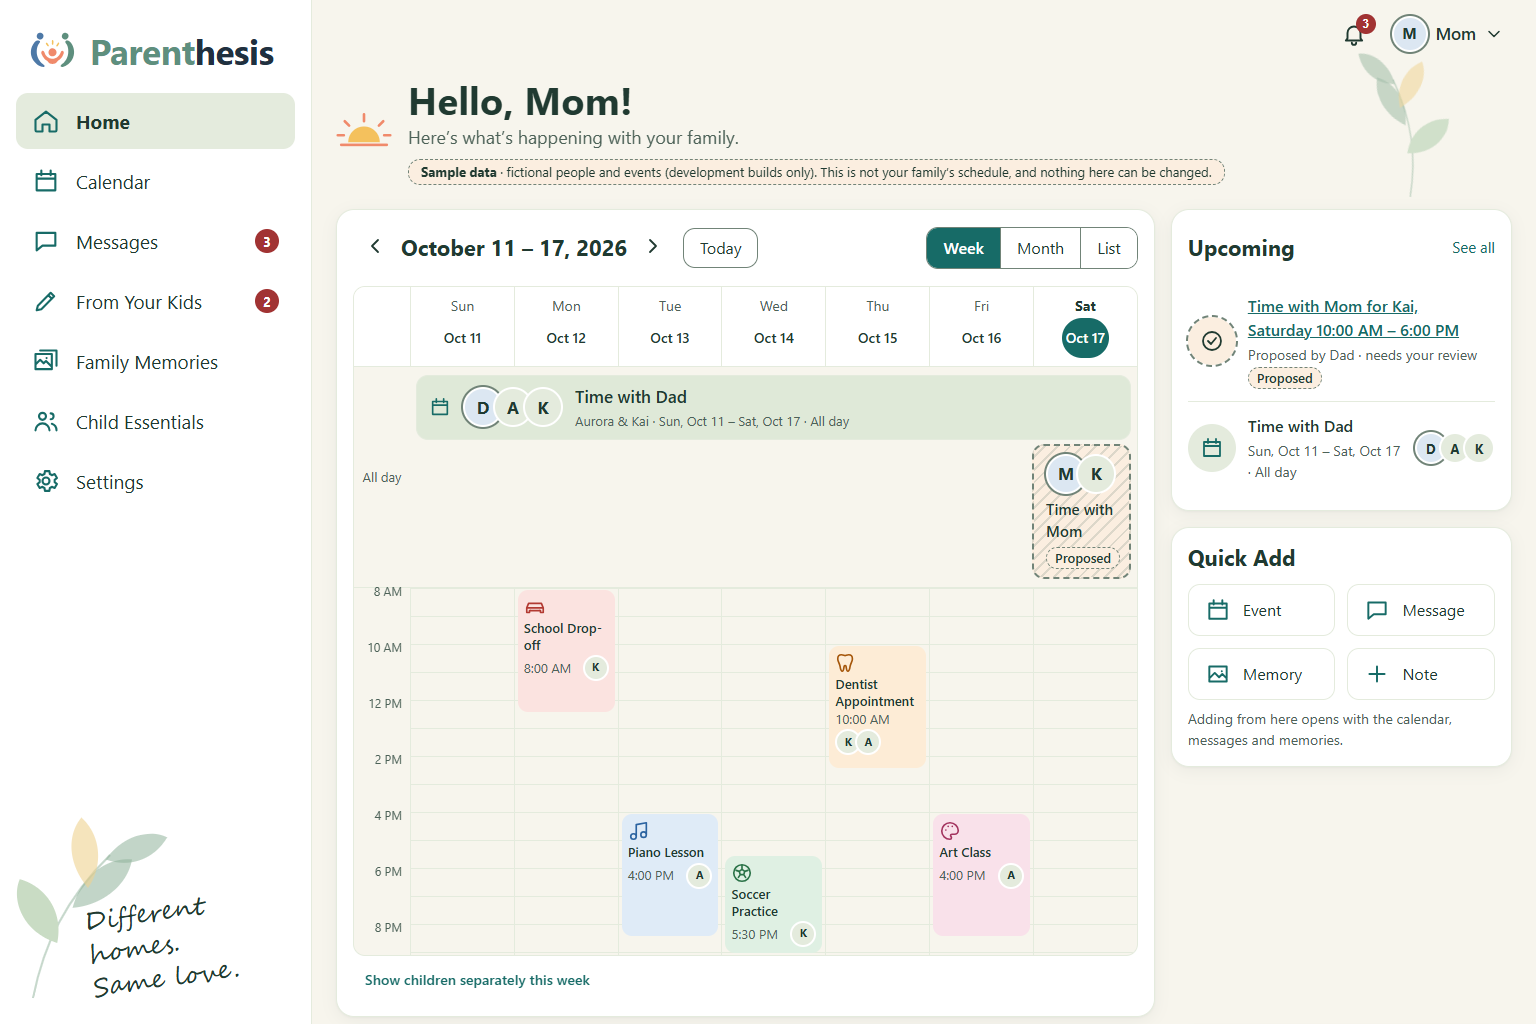
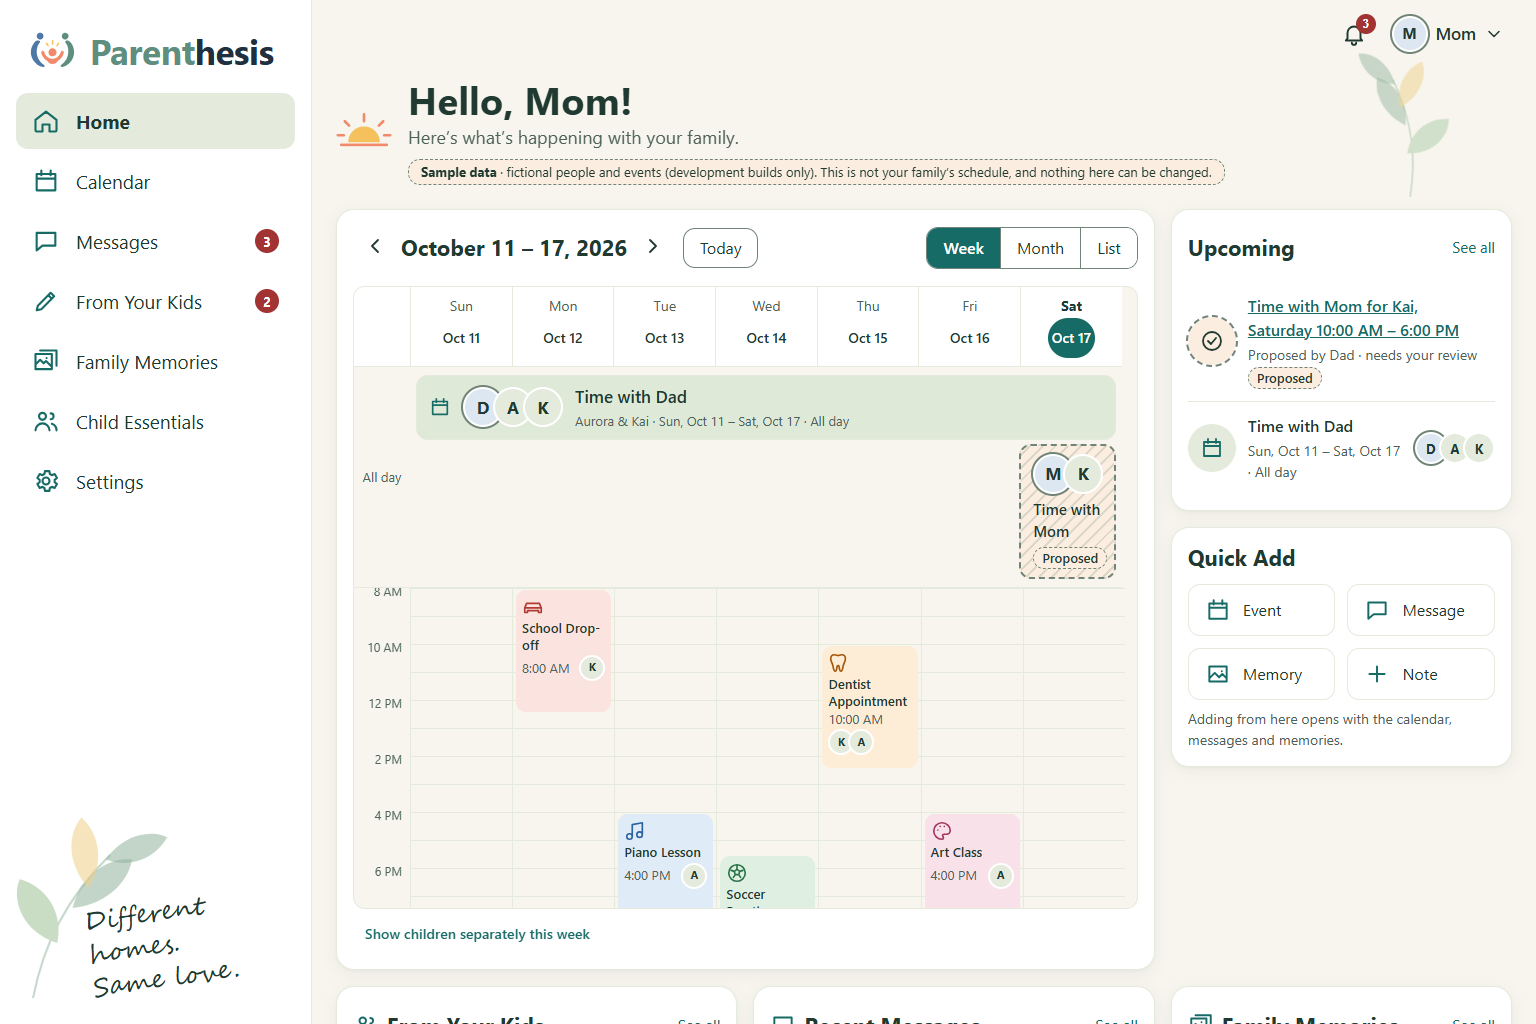
feat(dashboard): scrollable whole-day calendar with an always-visible scroll bar
User decision, October 17, 2026: like a desktop calendar, the day names and
the all-day row stay in place while the hours scroll inside a fixed height,
so the rest of the dashboard stays on screen.

- The grid now holds the whole day (12 AM - 12 AM) and opens each week at
  8 AM, or earlier when an activity starts earlier.
- Classic, always-visible scroll bar (opts out of auto-hiding overlay bars);
  the scroll area is keyboard-focusable and labelled.

diff --git a/src/frontend/src/app/features/dashboard/week-calendar.html b/src/frontend/src/app/features/dashboard/week-calendar.html
@@ -37,108 +37,120 @@
   <!-- Week grid (wide containers in Week view). -->
   @if (view() === 'week') {
     <div class="grid" [class.grid--empty]="state() !== 'ready'" [style.--rows]="rows()">
-      <div class="grid__corner" aria-hidden="true"></div>
-      @for (day of days(); track day.date) {
-        <div class="grid__head" [class.is-today]="day.isToday" [attr.aria-current]="day.isToday ? 'date' : null">
-          <span class="visually-hidden">{{ day.longLabel }}{{ day.isToday ? ', today' : '' }}</span>
-          <span aria-hidden="true" class="grid__weekday">{{ day.weekday }}</span>
-          <span aria-hidden="true" class="grid__date">{{ day.monthDay }}</span>
-        </div>
-      }
-
-      @if (state() === 'ready') {
-        <div class="grid__allday-label" aria-hidden="true">All day</div>
-        <ol class="allday" aria-label="All-day parenting time" [style.--lanes]="allDayLanes()">
-          @for (block of allDay(); track block.key) {
-            @let place = placement(block);
-            @if (place) {
-              <li
-                class="pt"
-                [class.pt--narrow]="place.endColumn - place.startColumn <= 2"
-                [attr.data-status]="block.status"
-                [style.--start]="place.startColumn"
-                [style.--end]="place.endColumn"
-                [style.--lane]="place.lane + 1"
-                [attr.title]="block.status === 'proposed' ? 'Proposed: needs approval, not on the schedule yet' : null"
-              >
-                <span class="pt__icon" aria-hidden="true"><app-icon name="calendar" [size]="22" /></span>
-                <span class="pt__avatars" aria-hidden="true">
-                  <app-avatar [name]="block.caregiver.displayName" kind="parent" [size]="40" />
-                  @for (child of block.children; track child.id) {
-                    <app-avatar [name]="child.name" [size]="40" />
-                  }
-                </span>
-                <span class="pt__text">
-                  <span class="pt__title">
-                    @if (place.continuesBefore) {
-                      <span aria-hidden="true">← </span>
-                    }
-                    {{ block.title }}
-                    @if (place.continuesAfter) {
-                      <span aria-hidden="true"> →</span>
-                    }
-                  </span>
-                  <span class="pt__meta">{{ childNames(block.children) }} · {{ range(block) }}</span>
-                  @if (block.status === 'proposed') {
-                    <span class="pt__note">Needs approval · not on the schedule yet</span>
-                  }
-                  @if (block.status === 'confirmed' && !block.changePending) {
-                    <span class="visually-hidden">, confirmed</span>
-                  }
-                </span>
-                @if (block.status !== 'confirmed' || block.changePending) {
-                  <span class="pt__status">
-                    @if (block.status !== 'confirmed') {
-                      <app-status-label [status]="block.status" />
-                    } @else {
-                      <app-status-label status="change-pending" />
-                    }
-                  </span>
-                }
-              </li>
-            }
-          }
-        </ol>
-
-        <div class="grid__hours" aria-hidden="true">
-          @for (mark of hourMarks(); track mark.row) {
-            <span [style.grid-row]="mark.row">{{ mark.label }}</span>
-          }
-        </div>
+      <!-- Day names and the all-day row stay in place; the hours below scroll, like a desktop calendar. -->
+      <div class="grid__top">
+        <div class="grid__corner" aria-hidden="true"></div>
         @for (day of days(); track day.date) {
-          <ol class="daycol" [attr.aria-label]="'Activities on ' + day.longLabel" [style.--lanes]="day.lanes">
-            @for (event of day.events; track event.id) {
-              @let slot = day.placements.get(event.id);
-              @if (slot) {
+          <div class="grid__head" [class.is-today]="day.isToday" [attr.aria-current]="day.isToday ? 'date' : null">
+            <span class="visually-hidden">{{ day.longLabel }}{{ day.isToday ? ', today' : '' }}</span>
+            <span aria-hidden="true" class="grid__weekday">{{ day.weekday }}</span>
+            <span aria-hidden="true" class="grid__date">{{ day.monthDay }}</span>
+          </div>
+        }
+
+        @if (state() === 'ready') {
+          <div class="grid__allday-label" aria-hidden="true">All day</div>
+          <ol class="allday" aria-label="All-day parenting time" [style.--lanes]="allDayLanes()">
+            @for (block of allDay(); track block.key) {
+              @let place = placement(block);
+              @if (place) {
                 <li
-                  class="act"
-                  [attr.data-category]="event.category"
-                  [attr.data-status]="event.status"
-                  [style.grid-row]="slot.row + ' / span ' + slot.span"
-                  [style.grid-column]="slot.lane"
-                  [attr.title]="event.title + ', ' + timeLabel(event.time!) + ', ' + childNames(event.children)"
+                  class="pt"
+                  [class.pt--narrow]="place.endColumn - place.startColumn <= 2"
+                  [attr.data-status]="block.status"
+                  [style.--start]="place.startColumn"
+                  [style.--end]="place.endColumn"
+                  [style.--lane]="place.lane + 1"
+                  [attr.title]="block.status === 'proposed' ? 'Proposed: needs approval, not on the schedule yet' : null"
                 >
-                  <span class="act__head">
-                    <app-icon class="act__icon" [name]="icons[event.category]" [size]="22" />
-                    <span class="act__text">
-                      <span class="act__title">{{ event.title }}</span>
-                      <span class="act__time">{{ timeLabel(event.time!) }}</span>
-                    </span>
-                  </span>
-                  <span class="visually-hidden">, {{ childNames(event.children) }}</span>
-                  <span class="act__avatars" aria-hidden="true">
-                    @for (child of event.children; track child.id) {
-                      <app-avatar [name]="child.name" [size]="26" />
+                  <span class="pt__icon" aria-hidden="true"><app-icon name="calendar" [size]="22" /></span>
+                  <span class="pt__avatars" aria-hidden="true">
+                    <app-avatar [name]="block.caregiver.displayName" kind="parent" [size]="40" />
+                    @for (child of block.children; track child.id) {
+                      <app-avatar [name]="child.name" [size]="40" />
                     }
                   </span>
-                  @if (event.status !== 'confirmed') {
-                    <app-status-label [status]="event.status" />
+                  <span class="pt__text">
+                    <span class="pt__title">
+                      @if (place.continuesBefore) {
+                        <span aria-hidden="true">← </span>
+                      }
+                      {{ block.title }}
+                      @if (place.continuesAfter) {
+                        <span aria-hidden="true"> →</span>
+                      }
+                    </span>
+                    <span class="pt__meta">{{ childNames(block.children) }} · {{ range(block) }}</span>
+                    @if (block.status === 'proposed') {
+                      <span class="pt__note">Needs approval · not on the schedule yet</span>
+                    }
+                    @if (block.status === 'confirmed' && !block.changePending) {
+                      <span class="visually-hidden">, confirmed</span>
+                    }
+                  </span>
+                  @if (block.status !== 'confirmed' || block.changePending) {
+                    <span class="pt__status">
+                      @if (block.status !== 'confirmed') {
+                        <app-status-label [status]="block.status" />
+                      } @else {
+                        <app-status-label status="change-pending" />
+                      }
+                    </span>
                   }
                 </li>
               }
             }
           </ol>
         }
+      </div>
+      @if (state() === 'ready') {
+        <div
+          #scroller
+          class="grid__body"
+          tabindex="0"
+          role="region"
+          aria-label="Activities by time of day, scrollable"
+        >
+          <div class="grid__hours" aria-hidden="true">
+            @for (mark of hourMarks(); track mark.row) {
+              <span [style.grid-row]="mark.row">{{ mark.label }}</span>
+            }
+          </div>
+          @for (day of days(); track day.date) {
+            <ol class="daycol" [attr.aria-label]="'Activities on ' + day.longLabel" [style.--lanes]="day.lanes">
+              @for (event of day.events; track event.id) {
+                @let slot = day.placements.get(event.id);
+                @if (slot) {
+                  <li
+                    class="act"
+                    [attr.data-category]="event.category"
+                    [attr.data-status]="event.status"
+                    [style.grid-row]="slot.row + ' / span ' + slot.span"
+                    [style.grid-column]="slot.lane"
+                    [attr.title]="event.title + ', ' + timeLabel(event.time!) + ', ' + childNames(event.children)"
+                  >
+                    <span class="act__head">
+                      <app-icon class="act__icon" [name]="icons[event.category]" [size]="22" />
+                      <span class="act__text">
+                        <span class="act__title">{{ event.title }}</span>
+                        <span class="act__time">{{ timeLabel(event.time!) }}</span>
+                      </span>
+                    </span>
+                    <span class="visually-hidden">, {{ childNames(event.children) }}</span>
+                    <span class="act__avatars" aria-hidden="true">
+                      @for (child of event.children; track child.id) {
+                        <app-avatar [name]="child.name" [size]="26" />
+                      }
+                    </span>
+                    @if (event.status !== 'confirmed') {
+                      <app-status-label [status]="event.status" />
+                    }
+                  </li>
+                }
+              }
+            </ol>
+          }
+        </div>
       }
     </div>
   }

diff --git a/src/frontend/src/app/features/dashboard/week-calendar.scss b/src/frontend/src/app/features/dashboard/week-calendar.scss
@@ -135,11 +135,55 @@ ul {
 // --- Week grid --------------------------------------------------------------------------------------------------
 .grid {
   display: none;
-  grid-template-columns: var(--gutter) repeat(7, minmax(0, 1fr));
   border: 1px solid var(--color-surface-soft);
   border-radius: var(--radius-control);
   background: var(--color-canvas);
   overflow: hidden;
+}
+
+// Both parts share the same columns and reserve the scroll bar's gutter, so the day columns line up.
+.grid__top,
+.grid__body {
+  display: grid;
+  grid-template-columns: var(--gutter) repeat(7, minmax(0, 1fr));
+  scrollbar-gutter: stable;
+}
+
+.grid__top {
+  overflow: hidden;
+}
+
+// The hours scroll inside a fixed height (the whole day is there), with a scroll bar that's always shown, so the rest
+// of the dashboard stays on screen. Keyboard users can focus it and scroll with the arrow keys.
+.grid__body {
+  max-height: 20rem;
+  overflow-y: scroll;
+  overscroll-behavior: contain;
+
+  // A classic, always-visible scroll bar. Styling it opts out of auto-hiding overlay scroll bars (Edge on Windows 11,
+  // macOS); Firefox, which lacks these pseudo-elements, gets scrollbar-color instead.
+  &::-webkit-scrollbar {
+    width: 12px;
+  }
+
+  &::-webkit-scrollbar-track {
+    background: var(--color-surface-soft);
+  }
+
+  &::-webkit-scrollbar-thumb {
+    border: 3px solid var(--color-surface-soft);
+    border-radius: var(--radius-pill);
+    background: var(--color-outline);
+  }
+
+  @supports not selector(::-webkit-scrollbar) {
+    scrollbar-color: var(--color-outline) var(--color-surface-soft);
+  }
+
+  &:focus-visible {
+    outline: 2px solid var(--color-focus);
+    outline-offset: -2px;
+  }
 }
 
 .grid__corner,
@@ -531,7 +575,7 @@ ul {
 // --- Wide: the week grid replaces the agenda in Week view -----------------------------------------------------------
 @container (min-width: 720px) {
   .grid {
-    display: grid;
+    display: block;
   }
 
   .agenda:not(.agenda--always) {

diff --git a/src/frontend/src/app/features/dashboard/week-calendar.ts b/src/frontend/src/app/features/dashboard/week-calendar.ts
@@ -1,4 +1,14 @@
-import { ChangeDetectionStrategy, Component, computed, input, output, signal } from '@angular/core';
+import {
+  ChangeDetectionStrategy,
+  Component,
+  ElementRef,
+  afterRenderEffect,
+  computed,
+  input,
+  output,
+  signal,
+  viewChild,
+} from '@angular/core';
 import { MatButtonModule } from '@angular/material/button';
 import { RouterLink } from '@angular/router';
 import { Avatar } from '../../shared/avatar/avatar';
@@ -64,8 +74,25 @@ export class WeekCalendar {
 
   protected readonly label = computed(() => weekLabelLong(this.weekStart()));
   private readonly events = computed(() => this.week()?.events ?? []);
-  protected readonly hours = computed(() => visibleHours(this.events()));
+  /** The whole day is in the grid; it scrolls (see constructor) to where this week's activities begin. */
+  protected readonly hours = computed(() => ({ startHour: 0, endHour: 24 }));
   protected readonly rows = computed(() => (this.hours().endHour - this.hours().startHour) * 2);
+  /** 8 AM, or earlier when an activity this week starts earlier. */
+  private readonly firstHour = computed(() => visibleHours(this.events()).startHour);
+  private readonly scroller = viewChild<ElementRef<HTMLElement>>('scroller');
+
+  constructor() {
+    // Open each week (and the grid itself) scrolled to the morning. It reruns only when the week, its activities or
+    // the grid change, never fighting the parent's own scrolling.
+    afterRenderEffect(() => {
+      const scroller = this.scroller()?.nativeElement;
+      const hour = this.firstHour();
+      this.weekStart();
+      if (scroller) {
+        scroller.scrollTop = ((hour - this.hours().startHour) * 2 * scroller.scrollHeight) / this.rows();
+      }
+    });
+  }
   protected readonly hourMarks = computed(() => {
     const { startHour, endHour } = this.hours();
     const marks: { label: string; row: number }[] = [];

diff --git a/src/frontend/src/app/features/dashboard/dashboard-page.spec.ts b/src/frontend/src/app/features/dashboard/dashboard-page.spec.ts
@@ -170,10 +170,21 @@ describe('DashboardPage (approved design)', () => {
       const dentist = columns[4].querySelector('.act') as HTMLElement; // Thursday
 
       expect(text(dentist.querySelector('.act__title'))).toBe('Dentist Appointment');
-      expect(dentist.style.gridRow).toBe(`5 / span ${MIN_SLOTS}`); // 10:00 AM in a grid starting at 8:00 AM
+      expect(dentist.style.gridRow).toBe(`21 / span ${MIN_SLOTS}`); // 10:00 AM in a whole-day grid of 30-minute rows
       expect(dentist.getAttribute('data-category')).toBe('medical');
       expect([...dentist.querySelectorAll('app-avatar')].map((a) => a.getAttribute('title'))).toEqual(['Kai', 'Aurora']);
       expect(text(columns[3])).toContain('Soccer Practice'); // Wednesday
+    });
+
+    it('keeps the whole day in a labelled, keyboard-focusable scrolling area below the all-day row', async () => {
+      const { el } = await render({ sample: true });
+      const scroller = el.querySelector('.grid__body')!;
+
+      expect(scroller.getAttribute('tabindex')).toBe('0');
+      expect(scroller.getAttribute('aria-label')).toBe('Activities by time of day, scrollable');
+      expect(scroller.querySelectorAll('.daycol')).toHaveLength(7);
+      expect(el.querySelector('.grid__top .allday')).not.toBeNull(); // Stays in place while the hours scroll.
+      expect(text(scroller.querySelector('.grid__hours'))).toContain('12 AM');
     });
 
     it('shows proposals on the calendar, below the schedule, marked as proposed and needing approval', async () => {
